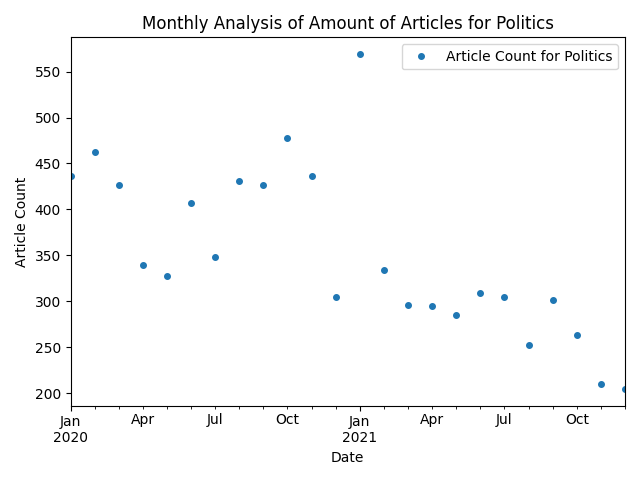
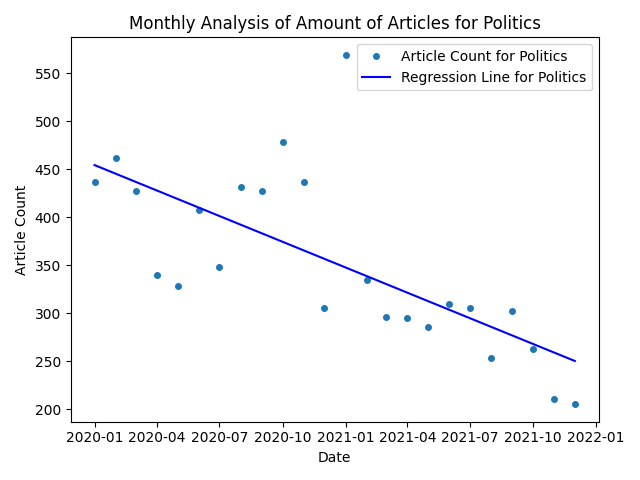
Adde regression

diff --git a/Analysing/Articlecount/Graph Months.py b/Analysing/Articlecount/Graph Months.py
@@ -1,18 +1,18 @@
 import sqlite3
 import matplotlib.pyplot as plt
+import numpy as np
 import pandas as pd
+from sklearn.linear_model import LinearRegression
+
 
 connection = sqlite3.connect("Analysing/Articlecount/articlecount.db")
 cursor = connection.cursor()
 
-
-topics = ["Politics", "World"]
 colors = ['#1f77b4', '#ff7f0e']
-for topic_id in range(len(topics)):
-    topic = topics[topic_id]
-    color = colors[topic_id]
-
-    cursor.execute(f"SELECT * FROM monthly_totals WHERE topic_id = {topic_id}")
+colors_reg = ['blue', 'red']
+topics = ["Politics", "World"]
+for i, topic in enumerate(topics):
+    cursor.execute(f"SELECT * FROM monthly_totals WHERE topic_id = {i}")
     rows = cursor.fetchall()
 
     # Create DataFrame
@@ -31,12 +31,22 @@ for topic_id in range(len(topics)):
     Dataframe.set_index('date', inplace=True)
 
     # Plot the article counts by month
-    Dataframe.plot(y='total_count', style='o', markersize=4, color=color)
+    plt.plot(Dataframe.index,
+             Dataframe['total_count'], 'o', markersize=4, color=colors[i])
+
+    X = Dataframe.index.astype(np.int64).values.reshape(-1, 1)
+    y = Dataframe['total_count']
+    model = LinearRegression()
+    model.fit(X, y)
+    y_pred = model.predict(X)
+    plt.plot(Dataframe.index, y_pred, color=colors_reg[i])
 
     # Customize the plot
+    legend1 = [f"Article Count for {topic}"]
+    legend2 = [f"Regression Line for {topic}"]
     plt.xlabel("Date")
     plt.ylabel("Article Count")
-    plt.legend([f"Article Count for {topic}"])
+    plt.legend(legend1 + legend2)
     plt.title(f"Monthly Analysis of Amount of Articles for {topic}")
     plt.tight_layout()
 
@@ -68,12 +78,31 @@ for i in range(len(topics)):
     plt.plot(Dataframe.index,
              Dataframe['total_count'], 'o', markersize=4, color=f'{colors[i]}')
 
+for i, topic in enumerate(topics):
+    cursor.execute(f"SELECT * FROM monthly_totals WHERE topic_id = {i}")
+    rows = cursor.fetchall()
 
+    Dataframe = pd.DataFrame(
+        rows, columns=[column[0] for column in cursor.description])
+
+    Dataframe = Dataframe.drop(columns=['id'])
+    Dataframe = Dataframe.drop(columns=['topic_id'])
+
+    Dataframe['date'] = pd.to_datetime(
+        Dataframe[['year', 'month']].assign(day=1))
+
+    X = Dataframe.index.astype(np.int64).values.reshape(-1, 1)
+    y = Dataframe['total_count']
+    model = LinearRegression()
+    model.fit(X, y)
+    y_pred = model.predict(X)
+    plt.plot(Dataframe.index, y_pred, color=colors_reg[i])
 # Customize the plot
-legend = [f"Article Count for {topic}" for topic in topics]
+legend1 = [f"Article Count for {topic}" for topic in topics]
+legend2 = [f"Regression Line for {topic}" for topic in topics]
 plt.xlabel("Date")
 plt.ylabel("Article Count")
-plt.legend(legend)
+plt.legend(legend1 + legend2)
 plt.title(f"Monthly Analysis of Amount of Articles")
 plt.tight_layout()
 
